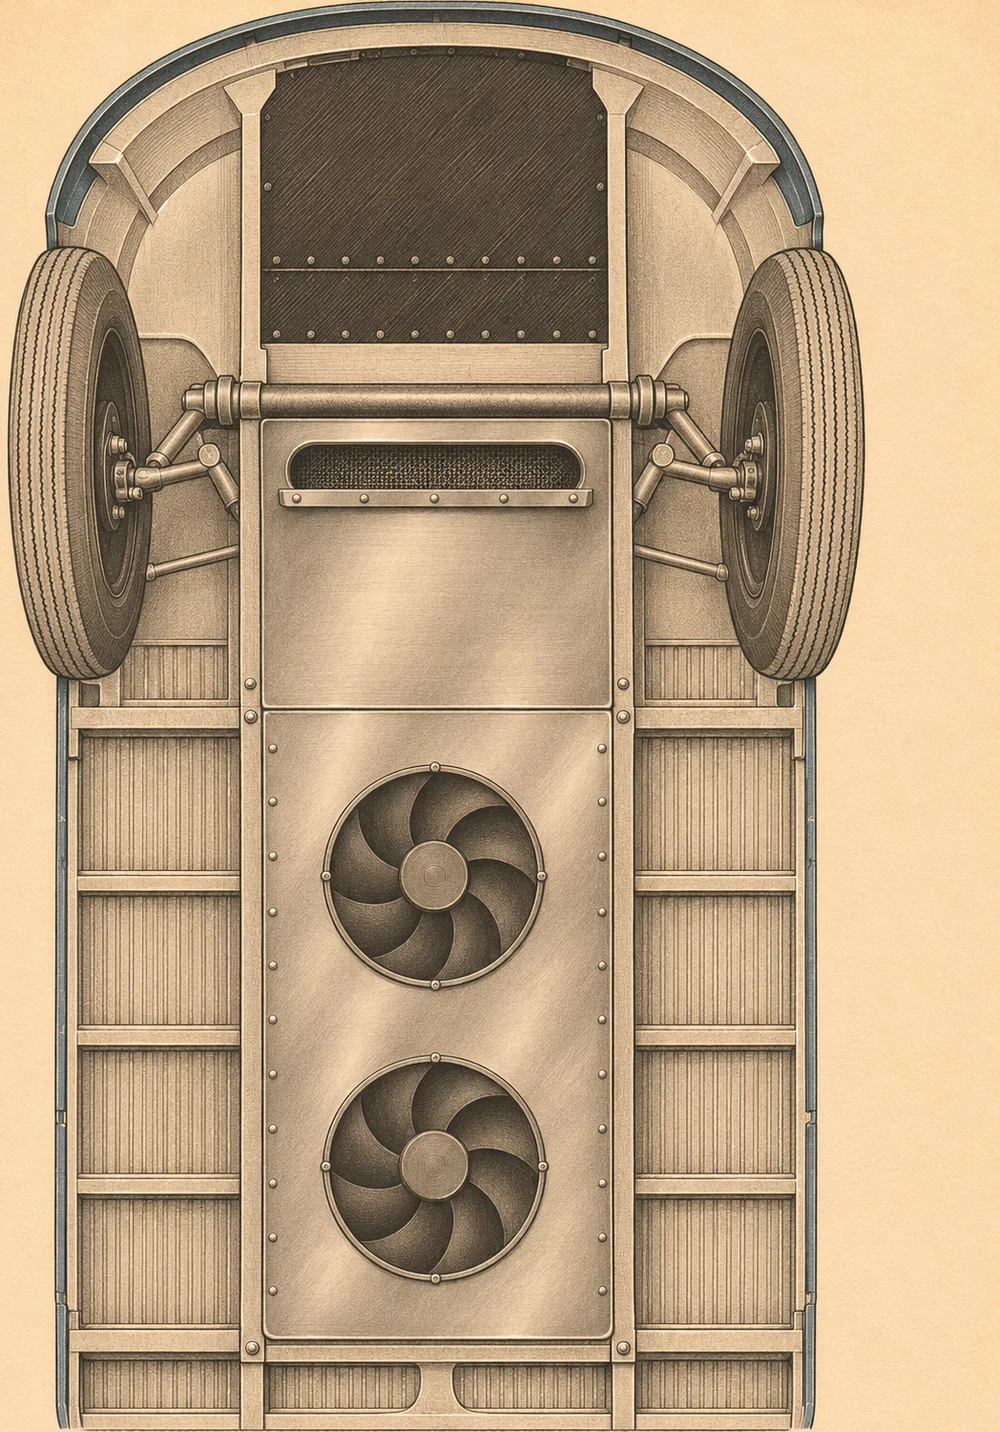
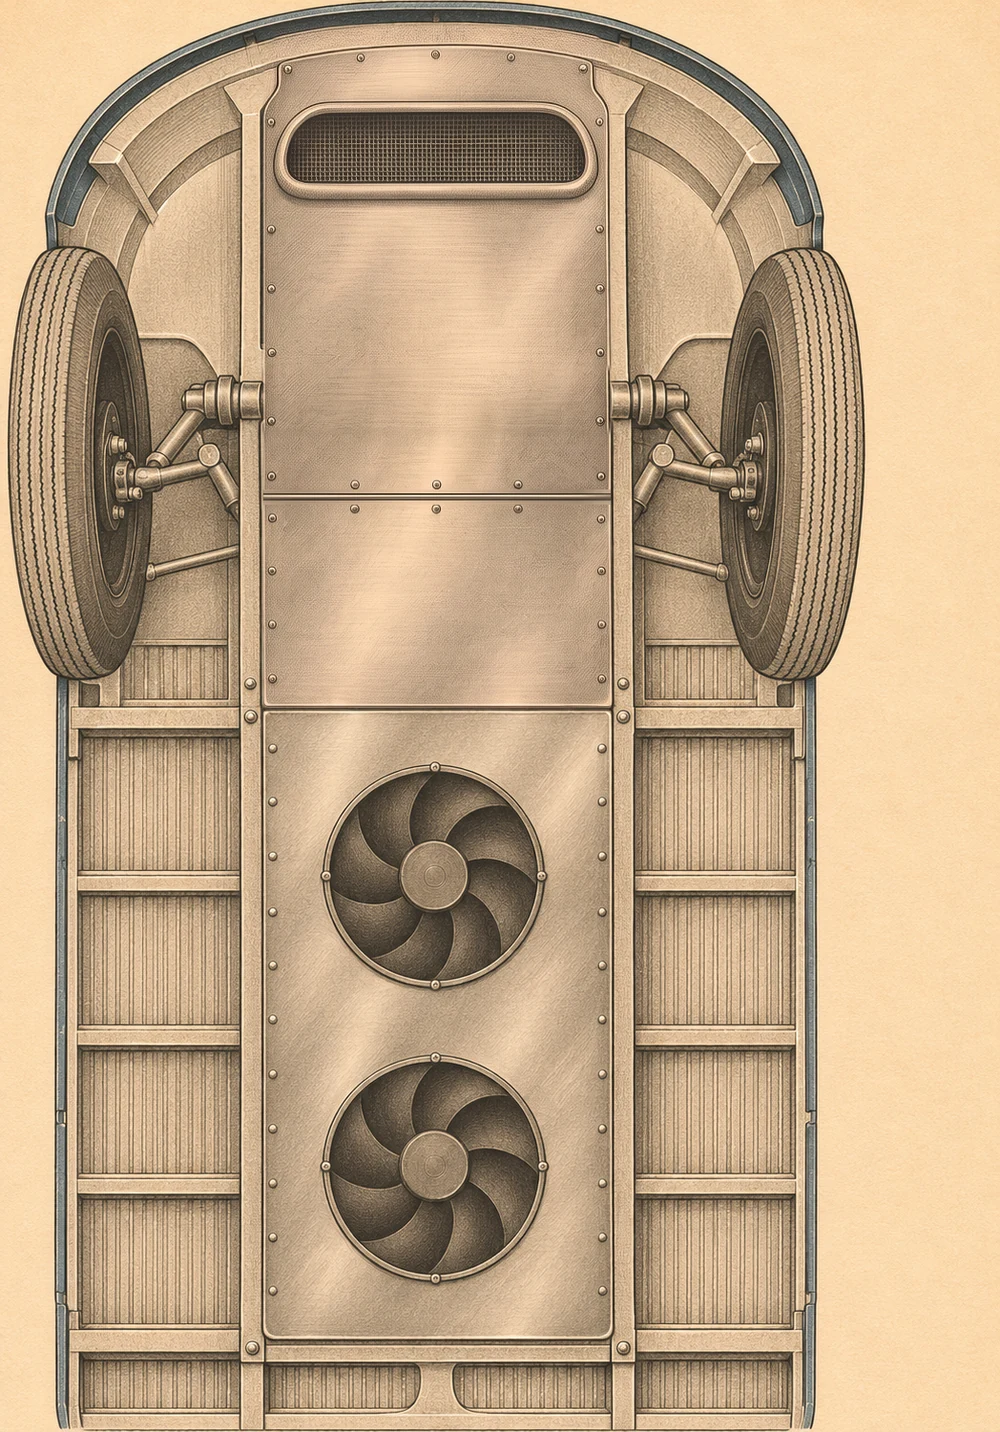
Underbelly plate: one flat belly pan with a wide rolled intake, copy to match

diff --git a/swaps/index.html b/swaps/index.html
@@ -235,11 +235,11 @@ section.block.swapcta{padding:40px 0 clamp(48px,6vw,84px)}
         <li>Full-size radiator with the A/C condenser stacked on top, first in the airflow</li>
         <li>Built-in transmission and engine oil coolers</li>
         <li>Whole stack enclosed in a bent stainless housing, between the frame rails</li>
-        <li>Flows forward into a sheet metal belly pan</li>
-        <li>Sealed scoop and road screen, with two low-profile fans pulling air down through the stack</li>
+        <li>One flat sheet metal belly pan from the bumper back to the housing, in removable panels</li>
+        <li>Wide rolled intake and road screen behind the bumper, with two low-profile fans pulling air down through the stack</li>
       </ul>
     </div>
-    <div class="media plate rise"><img width="1000" height="1432" src="../img/kit-underbelly.webp" alt="Vintage service manual style drawing of the underside of a VW bus, with a stainless housing and two fans between the frame rails, flowing forward into a belly pan with a screened intake mouth" loading="lazy"></div>
+    <div class="media plate rise"><img width="1000" height="1432" src="../img/kit-underbelly.webp" alt="Vintage service manual style drawing of the underside of a VW bus, with a stainless housing and two fans between the frame rails, with one flat belly pan running forward to a wide screened intake behind the bumper" loading="lazy"></div>
   </div>
 </section>
 <section class="block product" id="suspension">
